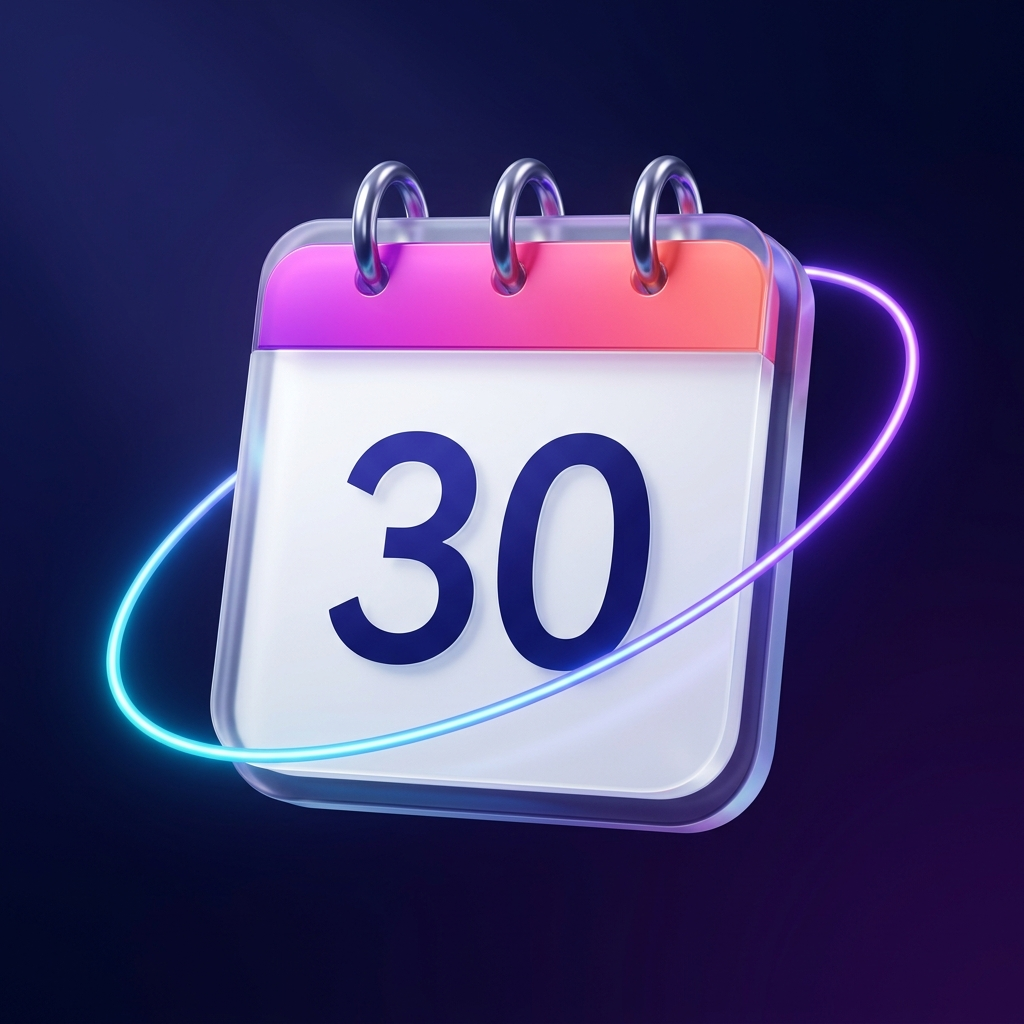
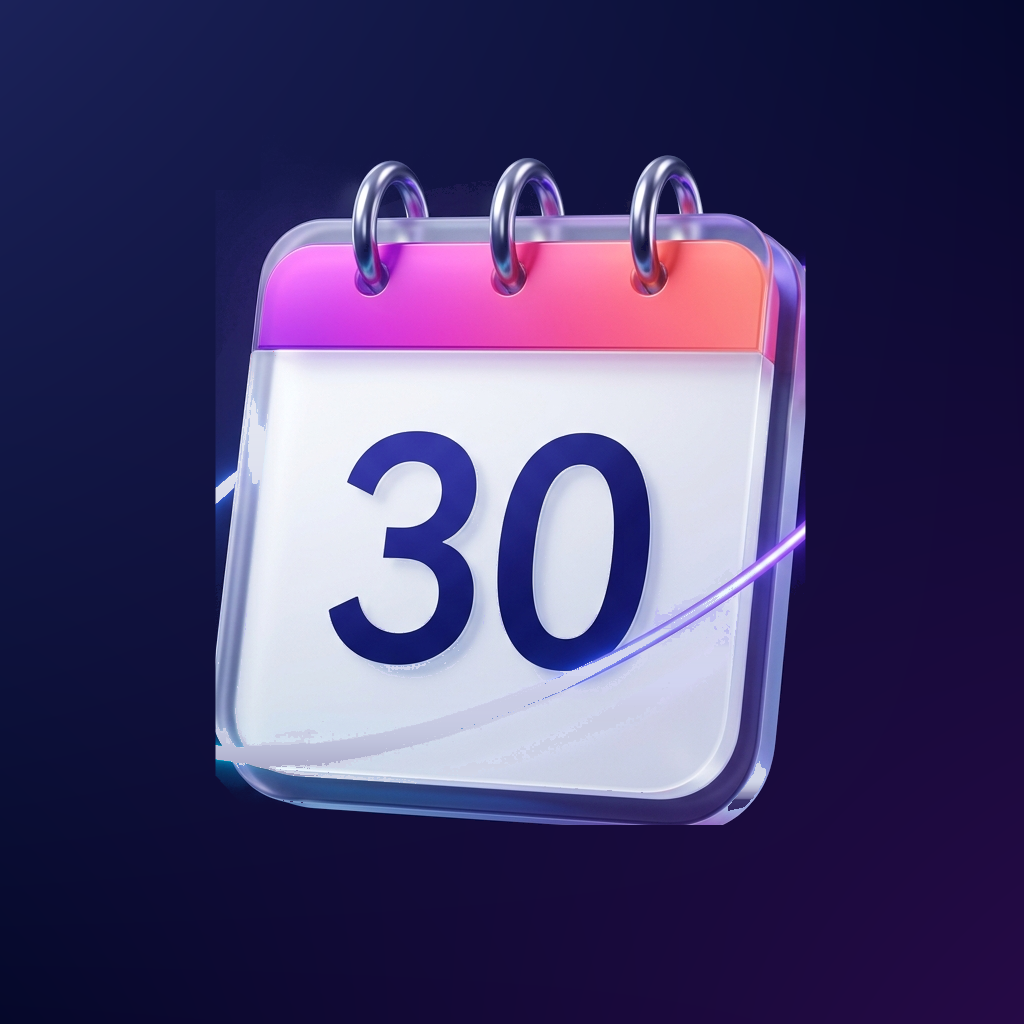
feat: 发布 v0.2.1 彻底去除图标霓虹光环，新建待办固定顶部向下展开并默认inbox，修复待办瞬间打勾与左滑删除

diff --git a/README.md b/README.md
@@ -2,13 +2,28 @@
 
 一款以**同步为核心**的鸿蒙原生日历应用，基于 HarmonyOS NEXT（ArkTS / Stage 模型）开发。对接标准 CalDAV 服务器（群晖、Nextcloud、Radicale、Baikal 等），让你的日程真正掌握在自己手里——不经过第三方云服务，数据始终同步在你自己的 NAS 上。
 
-- 应用市场送审版本：**0.1.0** ｜ 仓库当前：**0.2.0**（versionCode 10010）
+- 应用市场送审版本：**0.1.0** ｜ 仓库当前：**0.2.1**（versionCode 10011）
 - 官网：<https://synccalendar.yangyq.net> ｜ 问题反馈：<https://synccalendar.yangyq.net/feedback/>
 - 开源协议：Apache License 2.0
 
 ---
 
 ## 📝 最近更新
+
+### v0.2.1 (2026-11-01)
+- 🎨 **图标去除发光霓虹光环**：
+  - 彻底剔除前景分层图标（`foreground.png`）和应用主图标（`app_icon.png`、`startIcon.png`）周围悬浮及贯穿的蓝色/紫色椭圆发光霓虹光环；
+  - 完整保留立体的白色日历本主体、精细活页金属环、粉紫顶栏和清晰醒目的“30”日期字样，背景保持方角 100% 实色深空蓝渐变，视觉纯粹干净，完全符合华为应用市场最新审核规范。
+- 📐 **新建待办表单防上移与默认日历智能匹配（Inbox 优先）**：
+  - **布局防上移优化**：为 `TodoEditPage` 的外层容器与 `Scroll` 统一加入顶部绝对对齐（`Alignment.Top`），修复在新建待办时勾选“截止时间”导致窗口向上跳动的交互缺陷，内容向下平滑自然展开；
+  - **默认日历本智能匹配 `inbox`**：在新建待办（包括快速输入条与专业编辑页）中，优先自动检测并默认选中群晖 NAS / CalDAV 的 `inbox`、`Inbox` 或 `收件箱` 清单，省去用户手动切换日历本的步骤。
+- ⚡ **待办打勾 0ms 瞬间响应与双向切换修复**：
+  - 采用不可变状态更新机制，修复在未完成待办中打勾卡顿数秒等待网络同步的问题，点击瞬间 0ms 局部重新渲染；
+  - 修复已完成待办点击对号无法取消完成的故障，支持未完成 ⇄ 已完成双向即时无缝切换；
+  - 勾选框触控热区由 22x22 扩大到 36x36 居中响应区域，大幅降低触控失准误触进入详情页的概率。
+- 👈 **待办列表向左滑动显示删除按钮全面生效**：
+  - 将待办列表底层完全重构为标准 ArkUI 原生 `List` + `ListItem` 架构，将 `swipeAction` 真正绑定至每一条待办项；
+  - 无论是「未完成」还是「已完成」清单，向左滑动即可平滑滑出红底「删除」按钮，点击弹出确认弹窗并即时执行本地与云端彻底删除。
 
 ### v0.2.0 (2026-11-01)
 - 🛡 **全面修复华为应用市场审核驳回问题（规范 7.1.1.4.3 & 核心功能审核体验）**：
